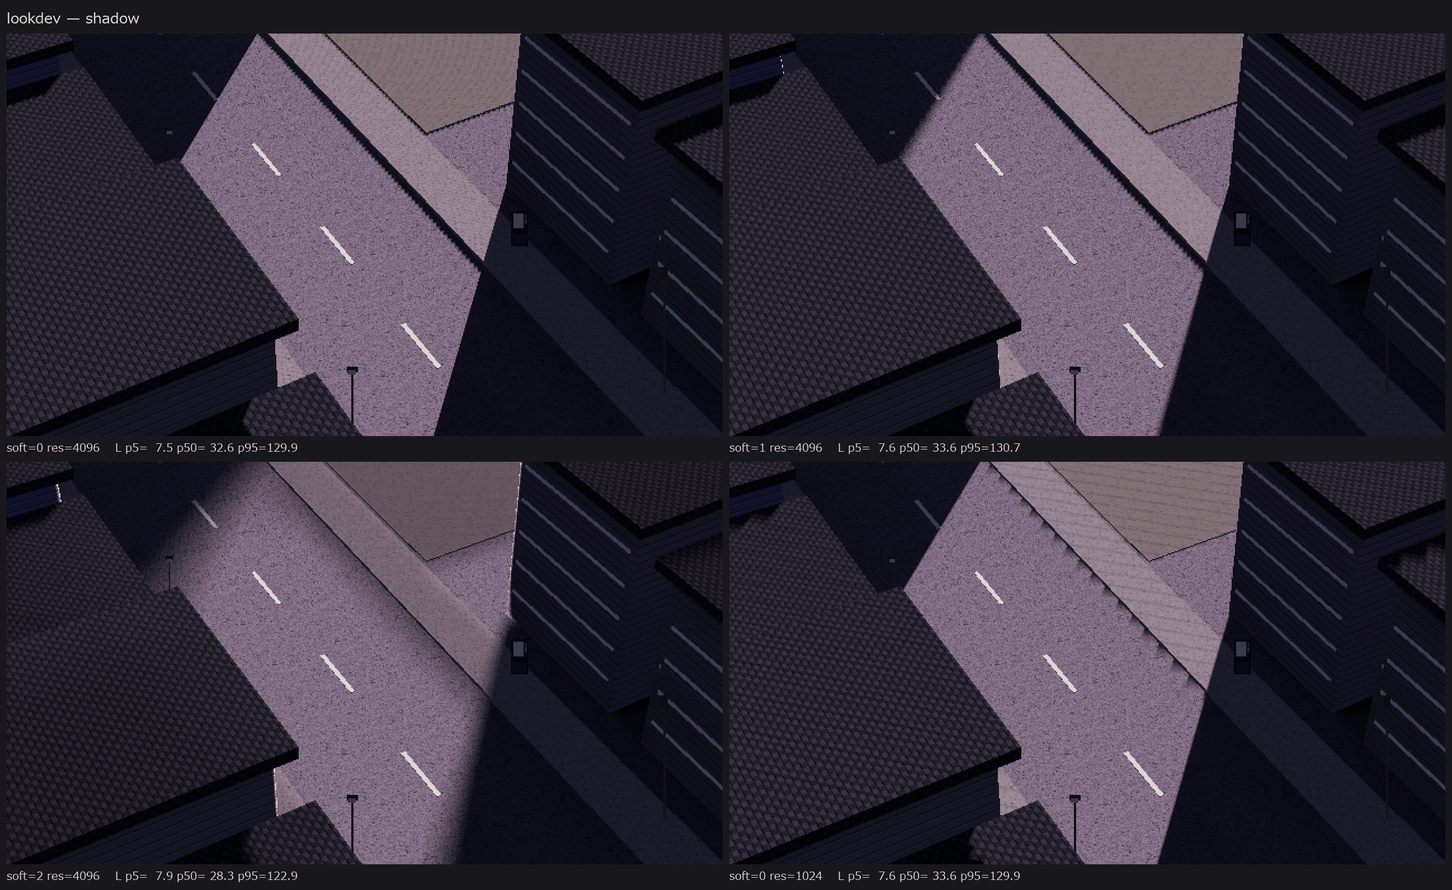
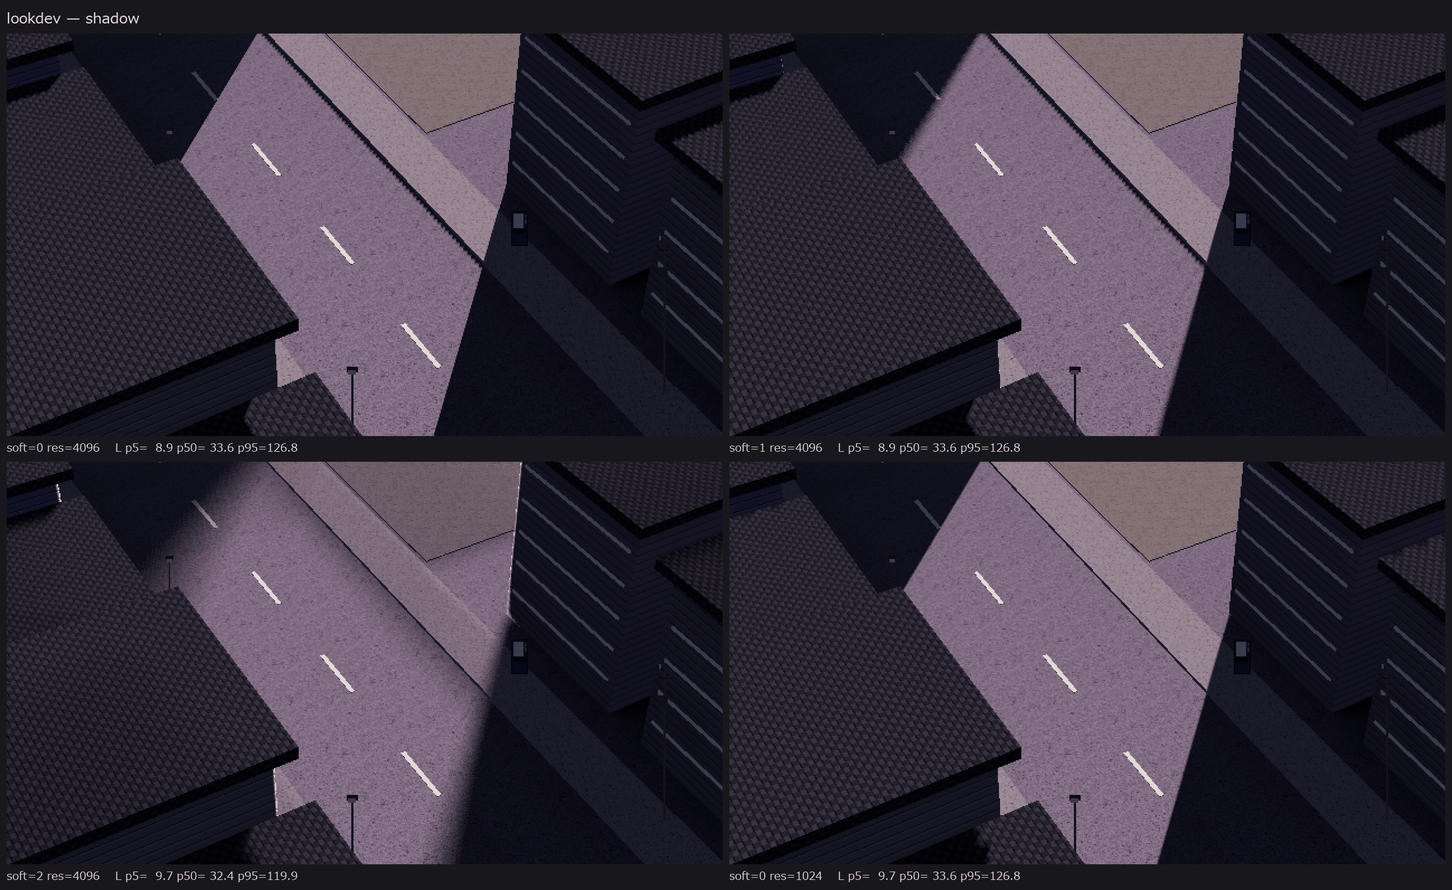
docs(design): 状態管理の設計案（F-1）とルックデブの積み残し修正（F-0） (#7)
- F-1: docs/DESIGN_STATE.md。事実を変数として定義し、主人公の知識・プレイヤーへの開示・発言記録・
  NPC ごとの信念を別テーブルで持ち、すべての変更を Event として追記する設計。矛盾検出、伝播、
  セーブ構造、31 日の見積もり、デバッグ画面、要確認事項を記載。実装は未着手。
- F-0a: 昼の路面の波状モアレの主因はシャドウアクネ（テクスチャ単色でも残る）。影アトラスを 32 bit、
  bias 0.05、normal bias 4.0 に変更（高周波量 66 → 21）。AO 用複製材質の world_mats 登録漏れ
  （ミップマップ既定が届かず Nearest のまま）と AO テクスチャの generate_mipmaps 未呼び出しも修正。
  C-3 の「ミップマップで解消」を訂正。4 時間帯を再撮影。
- F-0b: スプライト丸めの下限 max(1, round(ratio)) を ART_SPEC に明記。
- F-0c: ART_SPEC に未決事項（DOF、パレット、上端/下端のサイズ関係の確認）を追加。
- F-0d: E-2a の記述を E-2c の AO 実測を根拠にするよう書き直し。芯/開けた影は路面テクスチャの
  アルベド分散である可能性が高いと記録。
- lookdev.gd に shadow16 / shadow_bias / shadow_normal_bias 引数を追加。

diff --git a/docs/DESIGN_STATE.md b/docs/DESIGN_STATE.md
@@ -1,0 +1,261 @@
+# 状態管理の設計案（F-1）— 『磐戸町奇譚』の「知っている / 開示した / 言った / 疑われている」
+
+2026-09-06。設計案。**実装はまだ無い。** 依頼者の確認を経てから F-2（3 日・NPC 2 人の縦切り）に入る。
+
+## 0. 前提と方針
+
+- 核: 主人公は親友を怪異への生贄に捧げた加害者で、初日からその事実を知っている。プレイヤーには回想で少しずつ開示される。
+  主人公はそれを隠して調査に加わり、NPC に真実を言う・嘘をつく・黙る、を重ねる。
+- 31 日 × 複数 NPC に耐えること。数日後に効いてくる嘘、矛盾の検出、デバッグ可能性、セーブの互換性が要件。
+- 方針は 3 つ。
+  1. **「事実」を変数として定義し、あらゆる知識・発言・信念を「変数への値の割り当て」で表す。**
+     真偽は文字列の一致ではなく、変数の値どうしの比較で決まる。嘘は「主人公が知っている値と違う値を言うこと」。
+  2. **4 種の状態を別のテーブルに持ち、互いに参照はしても共有はしない。** 主人公の知識・プレイヤーへの開示・発言記録・NPC ごとの信念。
+  3. **状態を直接書き換えない。すべて「出来事（Event）」として追記し、状態は出来事の畳み込みで求める。**
+     セーブは出来事の列で、ロードは再生。デバッグは出来事を並べれば全部見える。
+
+## 1. 基本語彙
+
+### 1.1 事実変数（Fact）
+
+世界の「問い」を変数として列挙する。各変数は取りうる値（domain）と、世界の真の値（truth）を持つ。
+真の値は脚本で固定（authored）。プロトタイプでは 10〜15 個、本編で 40〜60 個を想定。
+
+```
+Fact {
+  id:      "night_0731_pc_location"          # 7/31 の夜、主人公はどこにいたか
+  domain:  ["home", "shrine", "with_misaki"]  # 取りうる答え
+  truth:   "shrine"                            # 世界の真実（脚本）
+  topic:   "misaki_disappearance"              # 会話や噂の束ね単位
+  weight:  3                                   # 嘘がばれたときの重さ（疑念値の係数）
+}
+```
+
+Yes/No の事実も domain ["yes", "no"] の変数として扱い、特別扱いしない。
+「答えを避けた」は値ではなく発言の種類（後述の Statement.kind = silence）で表す。
+
+### 1.2 出来事（Event）
+
+状態を変えるものはすべて Event として記録する。種類は 5 つだけに絞る。
+
+| kind | 内容 | 主な引数 |
+| --- | --- | --- |
+| `learn` | 主人公がある事実の値を知る | fact, value, source（"initial" / "npc:x" / "scene:y"） |
+| `reveal` | プレイヤーにある事実が開示される（回想・独白） | fact, scene |
+| `say` | 主人公が NPC に発言する | to, fact, kind（truth / lie / silence）, asserted, witnesses |
+| `npc_learn` | NPC がある事実の値をどこかから得る | npc, fact, value, source（"observe" / "pc" / "npc:x" / "script"） |
+| `tick` | 日付が進む（この時に噂の伝播と保留中の反応を処理） | day |
+
+全 Event は `{seq, day, slot, kind, ...}` で、`seq` は通し番号。
+
+## 2. 4 種の状態とデータ構造
+
+### 2.1 主人公の知識 `PCKnowledge`
+
+```
+PCKnowledge: Dictionary<fact_id, {value, since_day, source}>
+```
+
+- 初期値に「生贄の真実」を含む（`source: "initial"`、`since_day: 0`）。プレイヤーがまだ知らなくても主人公は知っている。
+- `learn` Event で追加・更新。同じ変数に別の値を学ぶこともある（誤情報）。その場合は履歴を残し、最新を採用。
+- 参照される場面: 会話で「真実を言う」の選択肢を出せるかどうか（知らないことは言えない。「知らない」と答えるのは silence 扱いではなく `say kind=truth asserted=null`）。
+
+### 2.2 プレイヤーへの開示 `Disclosure`
+
+```
+Disclosure: Dictionary<fact_id, {revealed: bool, day, scene}>
+FlashbackQueue: Array<{scene, trigger}>    # 回想の挿入予定
+```
+
+- 主人公の知識の**部分集合**。「主人公は知っているがプレイヤーはまだ知らない」= PCKnowledge にあって Disclosure に無い。
+- 会話の選択肢の**文言**だけを変える。開示前は「本当のことを言う」の中身が伏せ字（「……あの夜のことを、話す」）。
+  **選択肢の可否は主人公の知識で決め、開示状態では制限しない。** プレイヤーが伏せ字のまま「話す」を選ぶと、
+  その発言が回想の引き金になる（`say` の直後に `reveal`）。隠している当人は真実を知っているので、
+  プレイヤーの無知を選択肢の欠落で表さない、という判断。（要確認: 依頼者の意図と違えば、開示前は truth を出さない設定に切り替え可能。フラグ 1 つ。）
+
+### 2.3 発言記録 `Statements`
+
+```
+Statement {
+  id:        "s0042"
+  day, slot
+  to:        "npc:kanae"
+  fact:      "night_0731_pc_location"
+  kind:      "truth" | "lie" | "silence"
+  asserted:  "home"            # 言った値。silence なら null
+  is_lie:    true              # asserted != PCKnowledge[fact].value （記録時に確定）
+  witnesses: ["npc:father"]    # その場にいた他の NPC（伝播の起点）
+  scene:     "d02_shrine_talk"
+}
+Statements: Array<Statement>   # 追記のみ
+```
+
+- 「言ったが嘘」= `is_lie`。嘘かどうかは**主人公の知識との差**で判定する（世界の真実との差ではない）。
+  主人公が誤情報を信じて言った場合は嘘ではない（後で矛盾にはなり得る）。
+- 「知っているが言っていない」= PCKnowledge にあって、その NPC 宛の Statement が無い。クエリで求め、状態には持たない。
+- 同じ NPC に同じ事実を複数回言える。矛盾検出はこの記録を見る（第 4 節）。
+
+### 2.4 NPC ごとの信念 `NPCBelief`
+
+```
+NPCBelief[npc_id] {
+  facts: Dictionary<fact_id, {
+    belief:     "home" | null           # その NPC が今そう思っている値
+    confidence: 0.0..1.0                # 確信度
+    sources: [                          # どこから得たか（同じ変数に複数）
+      {kind: "pc_said", statement: "s0042", day: 2, value: "home"},
+      {kind: "observe", day: 1, value: "shrine"},        # 自分で見た（脚本で付与）
+      {kind: "heard", from: "npc:father", day: 3, value: "home"}
+    ]
+    doubt:      0.0..1.0                # 主人公の発言に対する疑い（矛盾で上がる）
+  }>
+  suspicion: 0..100                     # 主人公全体への疑念（事実横断の合計値）
+  trust:     0..100                     # 主人公への信頼（黙る・正直が上げる）
+  pending:   Array<{due_day, reaction, payload}>   # 数日後に発火する反応
+  memory_of_pc: Array<statement_id>     # 主人公から直接聞いた発言（伝聞は sources 側）
+}
+```
+
+- 「相手に疑われている」= その事実の `doubt` が閾値超え、または `suspicion` が段階閾値超え。
+  事実ごとの疑い（doubt）と人物への疑念（suspicion）を分けるのは、「あの件は怪しいが、こいつは信じている」を表せるようにするため。
+- `belief` は sources から**規則で導出**する（最新の観察 > 信頼する相手の伝聞 > 主人公の発言、など）。
+  規則は 1 か所（`derive_belief()`）に置き、デバッグ画面で「なぜそう信じているか」を sources ごとに表示できるようにする。
+
+## 3. 会話の選択肢が参照・更新する状態
+
+選択肢は脚本データ（JSON）で、条件と効果を宣言的に持つ。
+
+```
+{
+  "id": "d02_kanae_q_where",
+  "npc": "npc:kanae",
+  "fact": "night_0731_pc_location",
+  "prompt": "あの夜、どこにいたの？",
+  "options": [
+    {"kind": "truth",   "label": "神社にいた、と話す", "requires": {"pc_knows": "night_0731_pc_location"}},
+    {"kind": "lie",     "label": "家にいた、と言う",   "asserted": "home"},
+    {"kind": "lie",     "label": "美咲と一緒だった、と言う", "asserted": "with_misaki",
+                        "requires": {"not_said_before": ["npc:kanae", "night_0731_pc_location", "home"]}},
+    {"kind": "silence", "label": "答えない"}
+  ]
+}
+```
+
+| 参照する状態 | 用途 |
+| --- | --- |
+| PCKnowledge | truth の可否と、truth が指す値 |
+| Disclosure | truth の**文言**（伏せ字かどうか） |
+| Statements | 「前に別のことを言った」選択肢の出し分け、同じ嘘を繰り返す選択肢 |
+| NPCBelief | NPC の反応台詞の分岐（既に疑っている・別ルートで知っている） |
+
+| 書き換える状態 | 内容 |
+| --- | --- |
+| Statements | `say` を追記 |
+| NPCBelief[to] | sources に `pc_said` を追加、`memory_of_pc` に追加。矛盾チェック（第 4 節）→ doubt / suspicion / pending |
+| NPCBelief[witness] | 同席者にも `pc_said`（信頼度低め）として入る |
+| Disclosure | truth を選んで未開示なら `reveal` を追記（回想へ） |
+
+選択肢自体は状態を直接触らず、Event を発行するだけ。効果はすべて Event の適用規則側にある。
+
+## 4. 矛盾の検出と扱い
+
+### 4.1 検出（決定的・その場で実行）
+
+新しい `say`（to = N, fact = F, asserted = V）を適用するとき、NPC N について次を調べる。
+
+1. **自己矛盾**: N の `memory_of_pc` にある同じ F の発言で、asserted が V と異なるものがある。
+2. **伝聞との矛盾**: N の sources に `heard`（他の NPC 経由で伝わった主人公の発言）があり、値が V と異なる。
+3. **観察との矛盾**: N の sources に `observe`（脚本で N が直接知っている）があり、値が V と異なる。
+
+該当すれば `Contradiction {day, npc, fact, new: statement_id, against: source, severity}` を記録し、
+- `doubt[F] += weight × 係数`（自己矛盾 > 観察 > 伝聞 の順に重い）
+- `suspicion += weight × 係数`
+- `pending` に反応を積む（`due_day = day + 1〜3`、内容は「問い詰める」「第三者に確かめる」「態度が変わる」）
+
+silence は矛盾にならないが、同じ質問に 2 度黙ると doubt が少し上がる（「隠している」のシグナル）。
+
+### 4.2 伝播（`tick` 時に実行）
+
+NPC 間の関係グラフ（誰が誰と話すか、topic ごとの共有しやすさ）を脚本で持ち、日が変わるたびに
+`pc_said` を `heard` として隣へ流す（1 日 1 ホップ、確率ではなく規則で決める: 関係 ≥ 閾値なら流す）。
+これで「A に言った嘘が 2 日後に B の耳に入り、B との会話で矛盾になる」が作れる。
+**乱数は使わない。** 使うなら seed をセーブに入れるが、まずは決定的な規則だけで作る。
+
+### 4.3 プレイヤーへの提示
+
+推奨は **原則として見せない**（NPC の疑念値が上がる・保留中の反応が後日発火する）。
+理由: 「隠している緊張」は、ばれているかどうか分からないことから生まれる。矛盾を UI で明示すると管理ゲームになる。
+ただし例外を 2 つ用意する。
+- 反応が発火した会話では、NPC の台詞で矛盾の中身を突きつける（「この前は家にいたって言ったよね」）。
+- デバッグ画面ではすべて表示する（第 6 節）。
+
+**要確認**: 「主人公自身は自分が何を言ったか覚えている」を UI に出すか（手帳のような発言記録の閲覧）。
+出すなら Statements の閲覧 UI をプレイヤー向けに用意する。プロトタイプではデバッグ画面で代用。
+
+## 5. 31 日 × 複数 NPC への耐性
+
+### 5.1 データ量
+
+| 項目 | 本編の見積もり | 容量 |
+| --- | --- | --- |
+| Fact | 60 | 静的、脚本 |
+| Event | 1 日 20〜40 × 31 日 ≒ 1,000 | 1 件 200 バイトで 200 KB |
+| Statements | Event の一部、300 前後 | 上に含む |
+| NPCBelief | NPC 8 × Fact 60 = 480 エントリ、sources は 1 エントリ数個 | 100 KB 以下 |
+| セーブ | Event 列 + 派生状態のスナップショット | 500 KB 以下、JSON |
+
+Godot の JSON 読み書きで問題ない規模。1 日 40 Event でも 31 日で 1,240 件。
+
+### 5.2 デバッグ可能性
+
+- **Event が単一の真実**。派生状態（NPCBelief 等）は Event の畳み込みで再計算できるので、
+  「この状態はどうしてこうなった」を必ず Event 列に遡れる。
+- 状態を直接書く経路を作らない（脚本の効果も Event を発行するだけ）。これを守れば、31 日後の不整合の原因は
+  規則（`apply()` / `derive_belief()` / `propagate()`）の 3 関数か脚本データのどちらかに限定される。
+- デバッグ画面（第 6 節）で NPC ごとの信念表・sources・矛盾・保留中の反応を一覧できる。
+- 脚本データの静的検査（起動時）: 未定義の fact / npc 参照、domain 外の asserted、到達不能な選択肢。
+
+### 5.3 セーブとロード
+
+```
+Save {
+  version: 1,
+  day, slot, scene, position,
+  events: [...],                 # 通し番号付き。これが本体
+  snapshot: { pc_knowledge, disclosure, statements, npc_belief }   # 高速ロード用の派生状態
+}
+```
+
+- ロードは snapshot を読み、**検証モードでは events を再生して snapshot と一致するか照合**する。
+  規則を変えた後の古いセーブは、一致しなければ再生結果を採用して上書き（バランス変更に追従できる）。
+- `version` を持ち、Fact の追加は後方互換（未知の fact は未知のまま）、Fact の削除・改名は移行表で対応。
+- 31 日を通すために、1 日ごとの自動セーブ（`tick` の直後）と手動セーブ 3 枠。
+
+## 6. デバッグ画面（F-3 の要件）
+
+1 画面に次を出す（`F1` で切替）。
+
+- 日付・slot・現在シーン
+- PCKnowledge と Disclosure の差分（主人公が知っていてプレイヤーが知らないもの）
+- Statements の一覧（日、相手、事実、種類、値、嘘か、目撃者）
+- NPC ごとの表: fact × {belief, confidence, doubt} と、選択した fact の sources
+- suspicion / trust と pending（due_day と内容）
+- Contradictions の一覧
+- Event の末尾 N 件
+
+## 7. プロトタイプ（F-2）での範囲
+
+- Fact 10 前後（7/31 の夜の所在、美咲と最後に会った場所、誰が誘ったか、神社で何を見たか、など）
+- NPC 2 人（例: 幼なじみ・美咲の家族。関係グラフは 1 辺）
+- 3 日（8/1〜8/3）: 1 日目に嘘をつき、2 日目に伝播、3 日目に矛盾の反応が来る、が最短で成立する構成
+- Disclosure は回想 2 本（初日の導入と、truth を選んだときの引き金）
+- 実装順: Fact / Event / apply() → Statements と矛盾検出 → NPCBelief と伝播 → 会話 UI と選択肢 → セーブ → デバッグ画面
+
+## 8. 要確認事項（設計を確定する前に決めたいこと）
+
+1. 開示前の「真実を言う」選択肢を **出す**（伏せ字、選ぶと回想）か **出さない** か。案は「出す」。
+2. 矛盾をプレイヤーに **見せない**（疑念値と後日の反応だけ）で良いか。案は「見せない」。
+3. 主人公自身の発言記録をプレイヤーに閲覧させるか（手帳 UI）。プロトタイプではデバッグ画面で代用。
+4. NPC の疑念を **事実ごと（doubt）と人物全体（suspicion）の 2 層**にする案で良いか。
+5. 伝播は乱数なしの規則（関係値の閾値）で良いか。
+6. 時間の粒度: 日 + slot（朝 / 昼 / 夕 / 夜）で良いか。プロトタイプは日 + 2 slot を想定。

diff --git a/docs/ART_SPEC.md b/docs/ART_SPEC.md
@@ -60,7 +60,7 @@ lookdev（2026-09-06、フェーズ 1〜4）で確定した、3D 背景 + ドッ
   - 却下 A（Nearest そのまま）: 基準面から離れると 28 行のうち最大 4 行が不規則に間引き/重複され、歩くたびに入れ替わる
   - 却下 B（線形 + ミップマップ）: 間引きは消えるが縞が滲み、市松が灰色に溶ける。ドット絵でなくなる
   - 任意 D（C + 足元の画面位置を整数 px にスナップ）: ピクセルパーフェクトになるが、背景は滑らかに流れるので相対的な段付きが出る。要る場面だけ
-- 実装: 毎フレーム `h_px = 基準面での 1 m の px 数 × 距離補正` を求め、`scale = round(h_px/28) / (h_px/28)` を Sprite3D に掛ける（`_walk_snap_scale`）。
+- 実装: 毎フレーム見かけの比 `ratio = h_px / 28`（カメラ正対の 1 m の px 数 / 28）を求め、`scale = max(1, round(ratio)) / ratio` を Sprite3D に掛ける（`_walk_snap_scale`）。**下限 1 は必須**: 比が 0.5 を下回ると round が 0 になりスプライトが消える（カットシーンでカメラを引く場合に踏む）。
 - 密度は世界と同じ 28 texel/m。キャラクター 1.7 m ≒ 48 texel。既存の PixelLab 素材（64 px 中 約 50 px ≒ 28 px/m）はそのまま使える。
 - ノーマルマップ（`_n` / `_s`）は Sprite3D では使えない。使うなら QuadMesh + StandardMaterial3D。
 
@@ -69,7 +69,7 @@ lookdev（2026-09-06、フェーズ 1〜4）で確定した、3D 背景 + ドッ
 - 建物は壁 4 面 + 天面の板で作り、**UV2 を持たせて AO を焼く**（`ao_on_uv2 = true`、`ao_light_affect = 0`、
   環境光にのみ効く）。レイ距離は建物高さの 2〜3 倍（18 m）。
 - ただし **AO で作れる影の階調は小さい**（7 m 幅の街路・7 m の建物では路面の AO は 0.54〜0.71 の範囲、E-2c）。
-  参考画像の「芯 ≈11 / 開けた影 ≈30」は壁際の勾配ではなく、別の影またはアルベドの差である（E-2a）。
+  参考画像の「芯 ≈11 / 開けた影 ≈30」は照明の階調ではなく、路面テクスチャのアルベド分散（砂利とコンクリート）である可能性が高い（E-2a/E-2c）。素材が入れば解決する種類の差。
   **暗い芯が要る場所は、アルベド（路面の暗いパッチ）か、影を落とす物で作る。** AO に期待しない。
 - 地面も UV2 付きの板。
 
@@ -79,7 +79,7 @@ lookdev（2026-09-06、フェーズ 1〜4）で確定した、3D 背景 + ドッ
 | --- | --- |
 | 太陽 | 高度 13°、方位はカメラ正面から左 15°（逆光。見える壁面はすべて日陰）、色 (0.905, 0.833, 0.815)、energy 4.2 |
 | 環境光 | (0.327, 0.345, 0.429) × 0.386（AO 込みで路面の影の芯 / 日向 = 0.12） |
-| 影 | 硬い（blur 0）、PSSM 2 分割、解像度 1024 で十分 |
+| 影 | 硬い（blur 0）、PSSM 2 分割、解像度 1024 で十分。**影アトラスは 32 bit 深度、bias 0.05、normal bias 4.0**（16 bit + 1.5 では昼にシャドウアクネの波状モアレが出る） |
 | トーンマップ | **Filmic、white 1.0、露出 1.15**（Reinhard は white 1.0 で恒等写像なので比較に使わない） |
 | Fog / Glow / SSAO / SSIL / SDFGI | OFF（Glow は発光体を置く場面で個別に ON） |
 | 街灯 | 夕方は OFF。夜のみ ON |
@@ -93,3 +93,14 @@ lookdev（2026-09-06、フェーズ 1〜4）で確定した、3D 背景 + ドッ
 - 影の明度比は路面上の「日向の芯 / 影の芯」を **点**（3×3 平均）で測る。画面全体のパーセンタイルは使わない。
 - パン時のちらつきは隣接フレームの MAD。絶対値はパン経路依存なので条件間の相対比較のみ。
 - ヒストグラム・日陰面積率は記録するが目標にしない（素材の画素ばらつきが無い限り一致しない）。
+
+## 9. 未決事項（決着済みとして閉じないこと）
+
+1. **DOF。** 既定は OFF。ただし参考画像には DOF が入っており（左下手前がボケている）、過去作は意図的に使っていた。
+   演出として再検討の余地がある。再検討する際は、**シマー測定を必ず DOF OFF で行った上で**判断すること
+   （フェーズ 4 E-0 で、DOF がちらつきを 2.4 倍隠していたことが分かっている）。
+2. **パレット。** 3D ライティングを通すため最終画面の色数は事実上無制限で、PixelLab の 76 色パレットは最終画面を
+   拘束しない。「素材アルベドをパレットに拘束するか」「最終画面に色数量子化を掛けるか」は未決。当面どちらも行わない。
+3. **確認項目。** スプライト等倍固定（第 5 節 C 案）により、画面上端と下端でキャラクターと周囲のサイズ関係が
+   最大 17% ずれる（背景 0.857〜1.143 に対しスプライト 1.0）。縦切りで実物のスプライトをドア・自販機・車の横に
+   立たせて確認すること。

diff --git a/docs/lookdev/PHASE3.md b/docs/lookdev/PHASE3.md
@@ -94,7 +94,10 @@
 昼（太陽 68°）で同一カット、Nearest と Nearest+ミップマップ（世界テクスチャのみ）を比較
 （`c3_moire.png`、`c3_moire_closeup.png`）。
 
-- **路面の波状モアレはミップマップで消える。** 4 倍拡大で確認。
+- **路面の波状モアレはミップマップで消える** と初出で書いたが、**訂正（フェーズ 5 F-0a）**: 昼の路面の波状モアレの主因は
+  シャドウアクネ（太陽 68° で影マップが路面を自己遮蔽する）で、テクスチャを単色にしても残った（高周波量 65）。
+  16 bit 影アトラス + normal bias 1.5 が原因で、32 bit + normal bias 4.0（bias 0.05）で 66 → 21 まで下がる
+  （テクスチャのみの下限 16〜18）。ミップマップが効いたのはテクスチャ由来の分だけ。詳細は PHASE4.md の F-0a。
 - **屋根の縞（4 texel 周期の瓦）は残る。** ミップマップで振幅は下がるが、縞の周期が画面ピクセルに
   近い遠景の屋根ではエイリアスの帯が出る。屋根テクスチャの周期を粗く（8 texel）するか、
   遠景の屋根は無地に近づけるしかない。素材側の設計事項。
